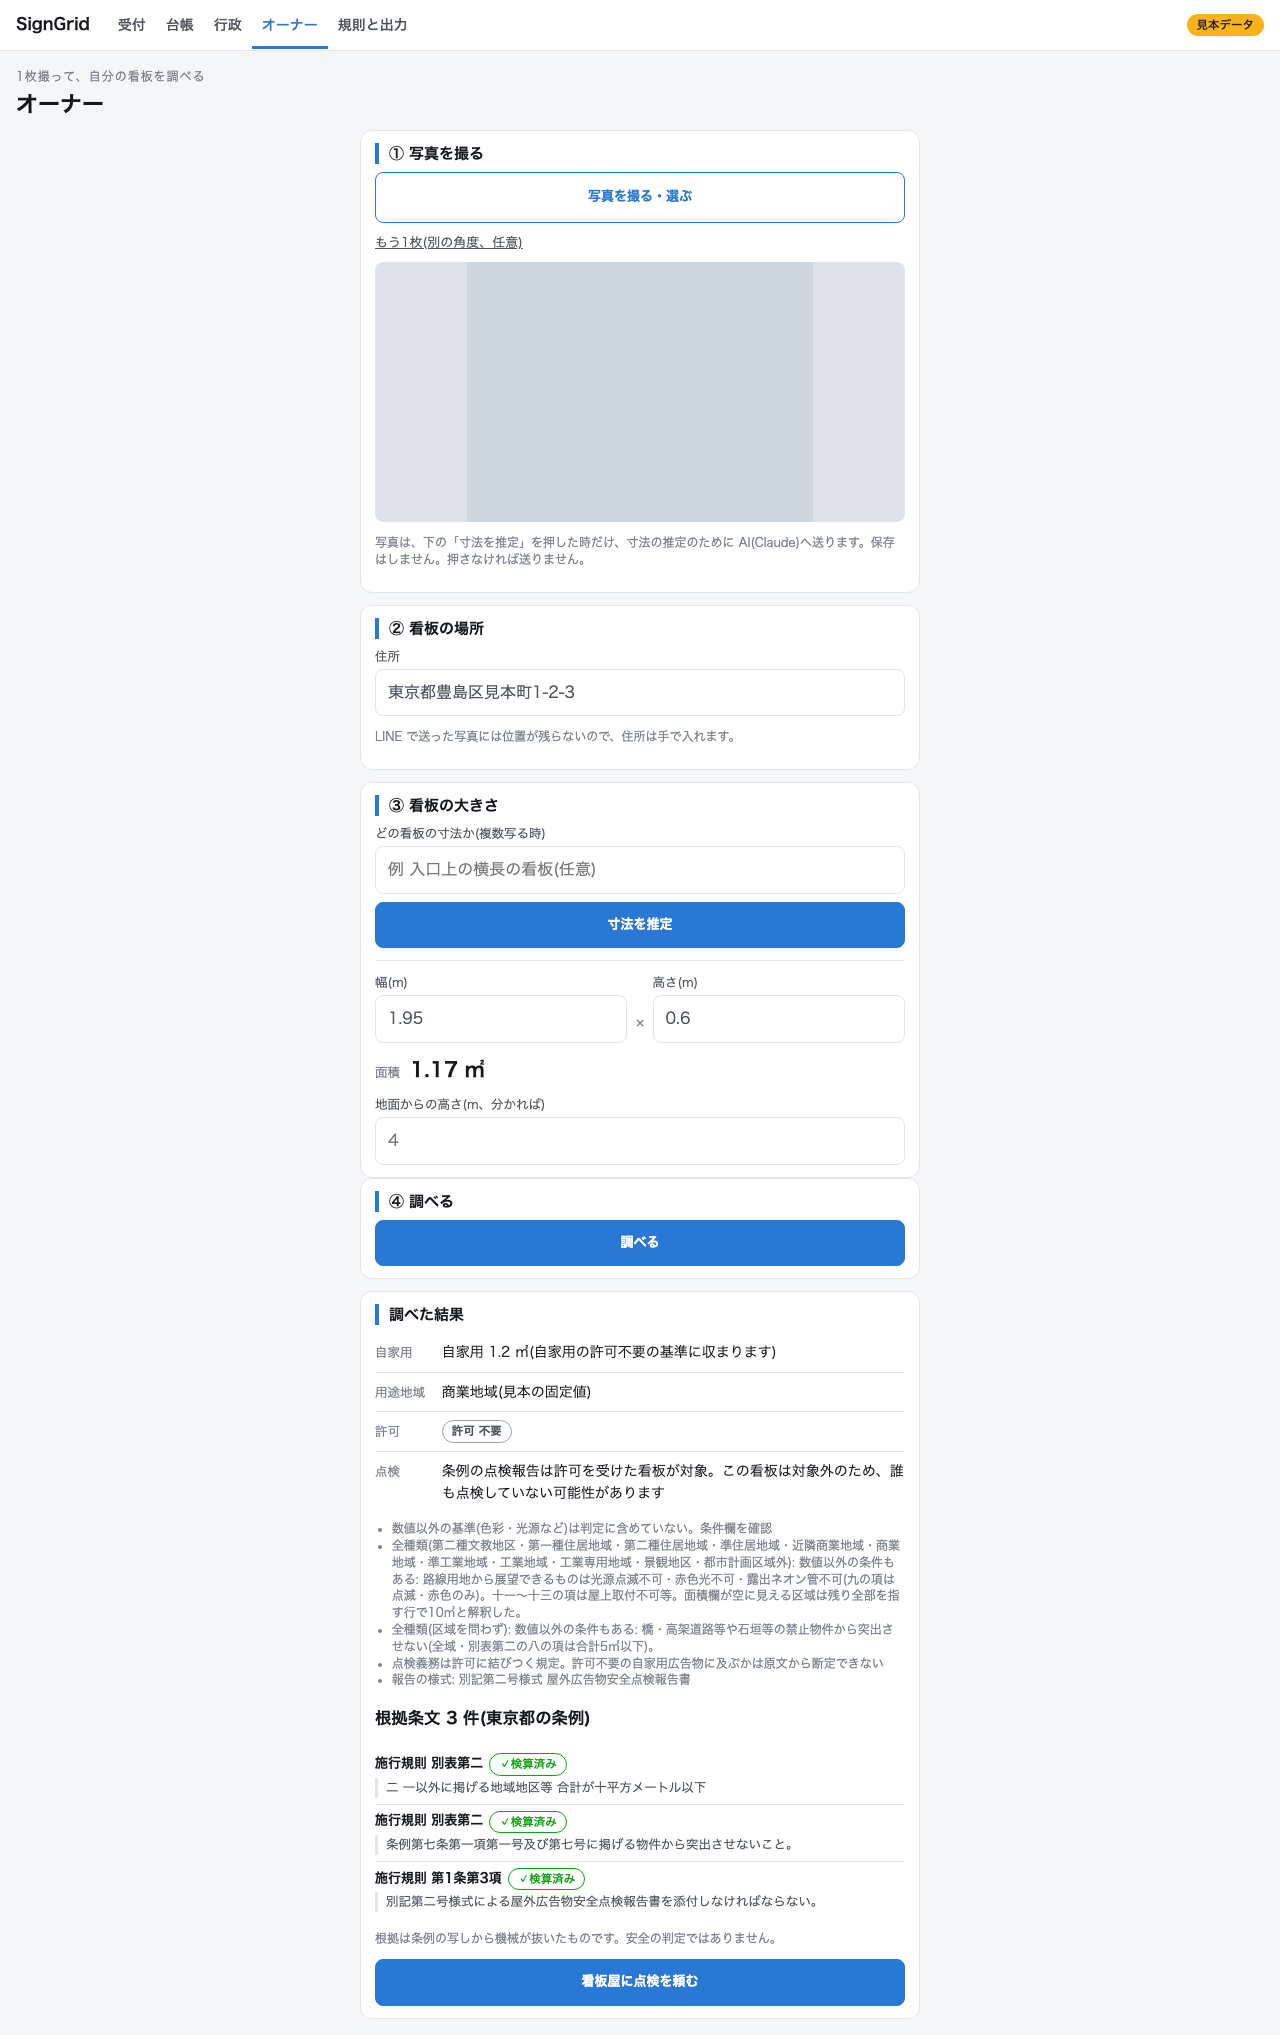
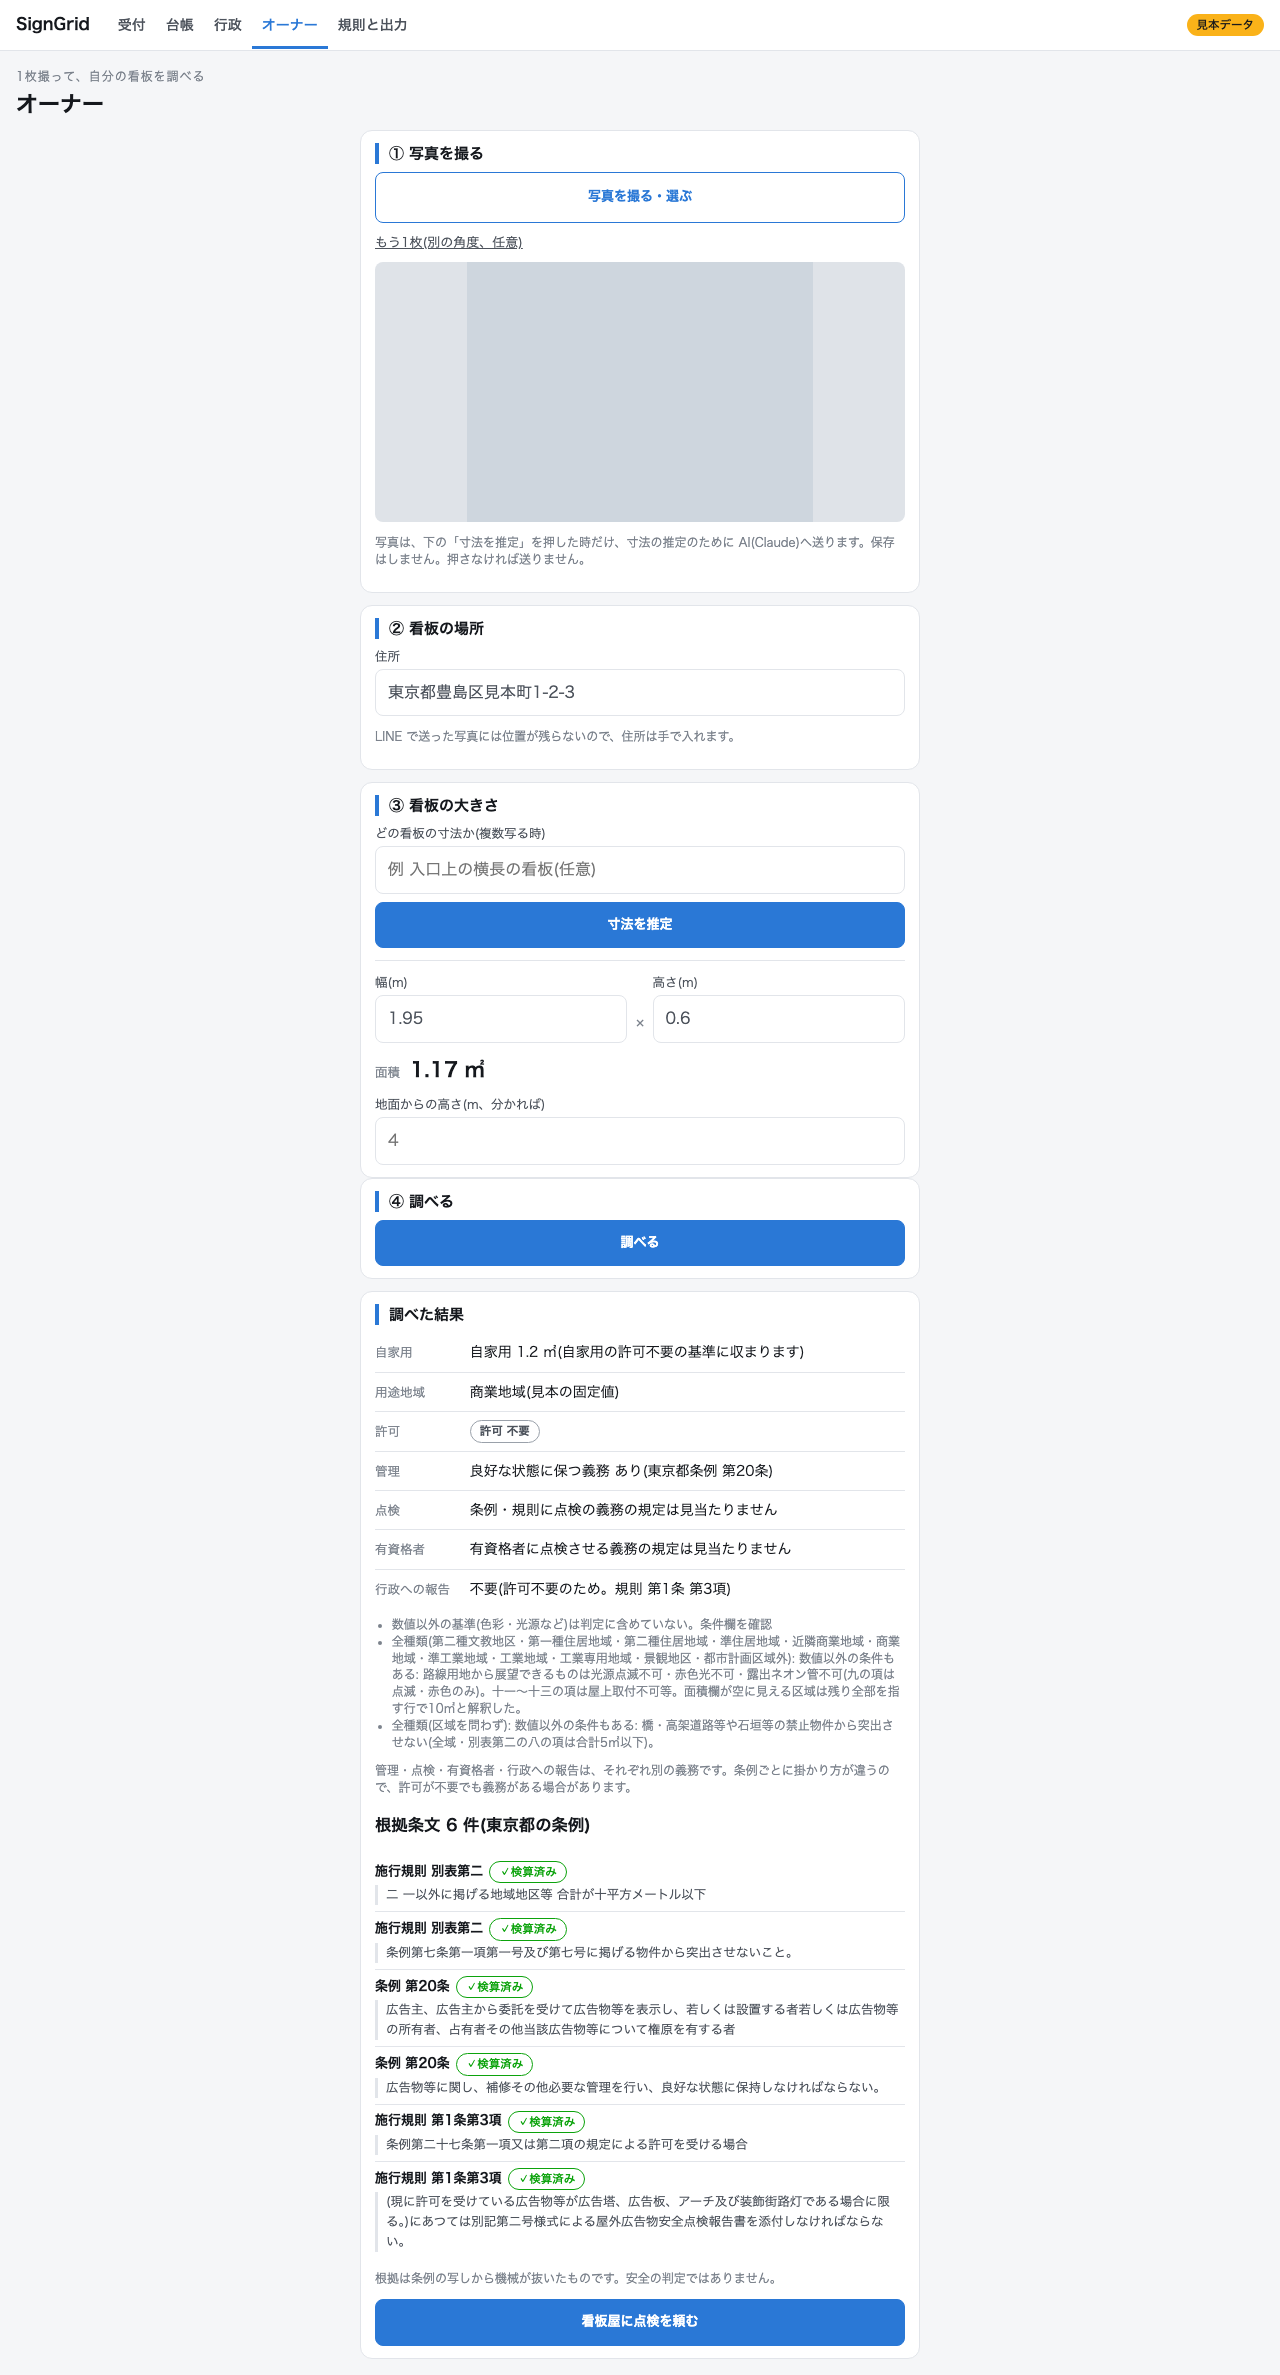
UI: karte legal card and owner screen show four duty rows with articles; drop the 'nobody may be inspecting' sentence

diff --git a/kanban_karte/web/static/owner.js b/kanban_karte/web/static/owner.js
@@ -3,16 +3,16 @@
 "use strict";
 (function () {
   const { el } = KK;
+  const DUTY_NOTE = "管理・点検・有資格者・行政への報告は、それぞれ別の義務です。条例ごとに掛かり方が違うので、許可が不要でも義務がある場合があります。";
 
-  // 点検の行の文言は法規役の値に従う(盛らない)
-  function inspectLine(r) {
-    if (r.permit_required === "不要" && r.inspection_required === "不要") return "点検の義務はありません";
-    if (r.permit_required === "不要" && r.inspection_required === "要実測") {
-      return "条例の点検報告は許可を受けた看板が対象。この看板は対象外のため、誰も点検していない可能性があります";
+  // 点検まわりの4行(管理 / 点検 / 有資格者 / 行政への報告)は法規役の duties の文言のまま(盛らない)。
+  // 旧形式の規則(duties が空)のときだけ、旧『点検』の値を1行で出す
+  function dutyLines(r) {
+    const es = KK.dutyEntries(r.duties);
+    if (!es.length) {
+      return [el("li", { class: "line-duty" }, el("span", { class: "k", text: "点検" }), el("span", { text: `点検の義務: ${r.inspection_required}(旧形式の規則。再抽出が要ります)` }))];
     }
-    if (r.permit_required === "不要") return "許可は不要ですが、条例の写しでは点検の義務が「要」とされています";
-    if (r.permit_required === "要") return `許可が要ります${r.permit_term_years ? `(許可の期限は ${r.permit_term_years} 年以内)` : ""}。点検の義務: ${r.inspection_required}`;
-    return "実測や区域の確認が要ります。点検の義務: 要実測";
+    return es.map((e) => el("li", { class: "line-duty" }, el("span", { class: "k", text: e.title }), el("span", { text: e.text })));
   }
 
   function placeLine(place) {
@@ -25,12 +25,11 @@
     const exempt = r.is_self_use_exempt;
     const line1 = exempt === true ? `自家用 ${area}(自家用の許可不要の基準に収まります)`
       : exempt === false ? `自家用 ${area}(自家用の基準を超えます)` : `自家用 ${area}(基準に収まるか決められません)`;
-    const line3 = inspectLine(r);
     return [
       el("li", { class: "line-use" }, el("span", { class: "k", text: "自家用" }), el("span", { text: line1 })),
       placeLine(place),
       el("li", { class: "line-permit" }, el("span", { class: "k", text: "許可" }), KK.permitChip(r.permit_required)),
-      el("li", { class: "line-inspect" }, el("span", { class: "k", text: "点検" }), el("span", { text: line3 })),
+      ...dutyLines(r),
     ];
   }
 
@@ -41,6 +40,7 @@
       el("h2", { text: "調べた結果" }),
       el("ul", { class: "three" }, threeLines(r, null, r.place)),
       r.notes && r.notes.length ? el("ul", { class: "legal-notes" }, r.notes.map((n) => el("li", { class: "sub", text: n }))) : null,
+      el("p", { class: "sub", text: DUTY_NOTE }),
       el("h3", { text: `根拠条文 ${(r.citations || []).length} 件${r.ordinance_key ? `(${r.ordinance_key}の条例)` : ""}` }),
       KK.citations(r.citations),
       el("p", { class: "sub", text: "根拠は条例の写しから機械が抜いたものです。安全の判定ではありません。" }),
@@ -54,7 +54,7 @@
     const m = (mm) => (mm / 1000).toFixed(2).replace(/\.?0+$/, "");
     const refs = (e.references || []).filter((r) => r.name);
     const legal = { permit_required: j.permit, inspection_required: j.inspection_required, is_self_use_exempt: j.is_self_use_exempt,
-      permit_term_years: j.permit_term_years };
+      permit_term_years: j.permit_term_years, duties: j.duties };
     const areaText = j.area_low === j.area_high ? `${j.area_mid.toFixed(1)} ㎡` : `${j.area_mid.toFixed(1)} ㎡(${j.area_low.toFixed(1)}〜${j.area_high.toFixed(1)} ㎡)`;
     return el("section", { class: "card owner-result owner-estimate", "aria-live": "polite" },
       el("h2", { text: "写真から推定した大きさ" }),

diff --git a/kanban_karte/web/static/karte.js b/kanban_karte/web/static/karte.js
@@ -124,6 +124,13 @@
       el("p", { class: "sub", text: d.height_m ? "高さの基準がある条例では、この値で判定します。" : "未入力。高さの基準がある条例では、全高が分からないと「要実測」になります。" }), msg);
   }
 
+  // 点検まわりの4つの義務(法規役の duties の文言のまま)。旧形式の規則のときは旧『点検』の値だけ
+  function dutyKv(L) {
+    const es = KK.dutyEntries(L.duties);
+    if (!es.length) return [el("span", { class: "k", text: "点検" }), el("span", {}, `点検の義務 ${L.inspection_required}(旧形式の規則。再抽出が要る)`)];
+    return es.flatMap((e) => [el("span", { class: "k", text: e.title }), el("span", {}, e.text)]);
+  }
+
   function legalCard(d, state, rerender) {
     const kv = (k, v) => [el("span", { class: "k", text: k }), el("span", {}, v)];
     const L = d.legal || {};
@@ -134,7 +141,9 @@
           : L.is_self_use_exempt ? `自家用の許可不要の基準に収まる${L.area_m2 ? `(${L.area_m2} ㎡)` : ""}` : "自家用の基準を超える、または自家用でない"),
         KK.placeText(L.place) ? kv("用途地域", KK.placeText(L.place)) : null,
         kv("許可", KK.permitChip(L.permit_required)),
-        kv("期限・点検", [term, `点検の義務 ${L.inspection_required}`].filter(Boolean).join(" / "))),
+        term ? kv("期限", term) : null,
+        ...dutyKv(L)),
+      el("p", { class: "sub", text: "管理・点検・有資格者・行政への報告は別の義務です。条例ごとに掛かり方が違い、許可が不要でも義務がある場合があります。" }),
       el("h3", { text: `根拠条文 ${(L.citations || []).length} 件${L.ordinance_key ? `(${L.ordinance_key}の条例)` : ""}` }),
       KK.citations(L.citations),
       (L.notes || []).length ? el("ul", { class: "legal-notes" }, L.notes.map((n) => el("li", { class: "sub", text: n }))) : null,

diff --git a/kanban_karte/web/static/app.css b/kanban_karte/web/static/app.css
@@ -125,7 +125,7 @@ dialog#lightbox::backdrop{background:rgba(0,0,0,.7)}
 .side-col{position:sticky;top:60px}
 .sum-top{display:flex;justify-content:space-between;gap:12px;align-items:flex-start}
 .rank-box{text-align:right;flex:none}
-.kv{display:grid;grid-template-columns:5.5em 1fr;gap:2px 10px;font-size:13px;margin-top:6px}
+.kv{display:grid;grid-template-columns:6.8em 1fr;gap:2px 10px;font-size:13px;margin-top:6px}
 .kv .k{color:var(--muted)}
 .items-head{display:flex;flex-wrap:wrap;justify-content:space-between;align-items:center;gap:8px}
 .items-head h2{margin:0}
@@ -240,7 +240,7 @@ dialog#lightbox::backdrop{background:rgba(0,0,0,.7)}
 .area{font-size:20px;font-weight:700}
 .owner label.num.wide{margin-top:4px}
 .three{list-style:none;margin:0;padding:0}
-.three li{display:grid;grid-template-columns:4.2em minmax(0,1fr);gap:8px;align-items:start;padding:8px 0;border-bottom:1px solid var(--line);font-size:14px}
+.three li{display:grid;grid-template-columns:6.2em minmax(0,1fr);gap:8px;align-items:start;padding:8px 0;border-bottom:1px solid var(--line);font-size:14px}
 .three li:last-child{border-bottom:0}
 .three .chip{justify-self:start}
 .three .k{color:var(--muted);font-size:12.5px;padding-top:2px}

diff --git a/kanban_karte/web/static/app.js b/kanban_karte/web/static/app.js
@@ -155,3 +155,10 @@ KK.start = async function () {
   window.addEventListener("hashchange", KK.route);
   KK.route();
 };
+
+// 点検まわりの4つの義務(管理 / 点検 / 有資格者 / 行政への報告)。法規役の duties({title, value, text})を順に。
+// 4つは別の義務で、条例ごとに掛かり方が違う。text は法規役が条文つきで作った1行(盛らない)
+KK.DUTY_ORDER = ["maintenance", "inspection", "qualified", "report"];
+KK.dutyEntries = function (duties) {
+  return duties ? KK.DUTY_ORDER.filter((k) => duties[k]).map((k) => duties[k]) : [];
+};

diff --git a/tools/web_screenshots.py b/tools/web_screenshots.py
@@ -3,7 +3,7 @@
   python3 tools/web_screenshots.py [--out docs/img] [--only ledger,karte,...]
 
 撮る画面: ledger(台帳)、karte(カルテ)、karte-legal(カルテの法規カード)、karte-edit(黄色のマスを直した後)、karte-confirmed(確定後)、
-rules(規則と出力)、intake(受付)、gov(行政。gov.make_sample の見本の束を入れる)、owner(オーナー。見本の寸法で「調べる」まで)、
+rules(規則と出力)、intake(受付)、gov(行政。gov.make_sample の見本の束を入れる)、owner(オーナー。見本の寸法で「調べる」まで)、owner-saitama(同、埼玉県の住所・全高 5m)、
 owner-estimate(オーナーの「寸法を推定」後。推定役は固定値の見本で、API は呼ばない)。
 karte-edit 以降は台帳を書き換えるので、一時の台帳でだけ行う(見本の JSON は変わらない)。
 """
@@ -99,6 +99,19 @@ def run(page, base, out, tag, only):
         page.evaluate("window.scrollTo(0, 0)")
         page.screenshot(path=str(out / f"owner-{tag}.png"), full_page=True)
         print(out / f"owner-{tag}.png")
+    if want("owner-saitama"):  # 許可不要の自家用でも点検の義務がある条例(埼玉県)。全高 5m で有資格者は努力義務
+        page.goto(f"{base}/#/owner")
+        page.wait_for_selector("main .owner")
+        page.fill("#owner-address", "埼玉県さいたま市大宮区桜木町1-1-1")
+        page.fill("#owner-w", "1.95")
+        page.fill("#owner-h", "0.6")
+        page.fill("#owner-height", "5")
+        page.click("button:has-text('調べる')")
+        page.wait_for_selector(".owner-result .cites li")
+        page.wait_for_timeout(600)
+        page.evaluate("window.scrollTo(0, 0)")
+        page.screenshot(path=str(out / f"owner-saitama-{tag}.png"), full_page=True)
+        print(out / f"owner-saitama-{tag}.png")
     if want("owner-estimate"):
         page.goto(f"{base}/#/owner")
         page.wait_for_selector("main .owner")

diff --git a/kanban_karte/dim/estimator.py b/kanban_karte/dim/estimator.py
@@ -210,8 +210,21 @@ def judge_from_range(estimate: DimEstimate, address: str | None, judge=legal.jud
     if lo.permit_required != hi.permit_required:
         notes.append(f"推定の範囲の両端で結論が分かれる(小さい側 {area_low} ㎡: 許可{lo.permit_required}、"
                      f"大きい側 {area_high} ㎡: 許可{hi.permit_required})。実測が要る")
+    duties = {}
+    for k, e in lo.duties.items():
+        h = hi.duties.get(k)
+        if h is not None and h["value"] == e["value"]:
+            duties[k] = e
+        else:  # 範囲の両端で結論が分かれる -> 要実測(根拠の条文は小さい側のものを残す)
+            duties[k] = {**e, "value": legal.NEEDS_MEASURE, "reason": "推定の範囲の両端で結論が分かれる",
+                         "text": "要実測(推定の範囲の両端で結論が分かれる)"}
     return {"permit": permit, "area_low": area_low, "area_high": area_high, "area_mid": area_mid,
             "inspection_required": same(lo.inspection_required, hi.inspection_required),
+            "maintenance_duty": same(lo.maintenance_duty, hi.maintenance_duty),
+            "inspection_duty": same(lo.inspection_duty, hi.inspection_duty),
+            "inspection_interval_years": lo.inspection_interval_years if lo.inspection_interval_years == hi.inspection_interval_years else None,
+            "qualified_inspector": same(lo.qualified_inspector, hi.qualified_inspector),
+            "report_duty": same(lo.report_duty, hi.report_duty), "duties": duties,
             "is_self_use_exempt": lo.is_self_use_exempt if lo.is_self_use_exempt == hi.is_self_use_exempt else None,
             "permit_term_years": hi.permit_term_years, "ordinance_key": lo.ordinance_key or hi.ordinance_key,
             "municipality": lo.municipality or hi.municipality, "citations": cites, "notes": notes,

diff --git a/tests/test_web_v2.py b/tests/test_web_v2.py
@@ -22,6 +22,24 @@ class LegalTest(WebTest):
         for k in api.LEGAL_KEYS:
             self.assertIn(k, L)
 
+    def test_legal_has_four_duties(self):
+        L = self.req("/api/signs/demo-001")[1]["legal"]
+        for k in ("maintenance_duty", "inspection_duty", "qualified_inspector", "report_duty", "inspection_interval_years", "duties"):
+            self.assertIn(k, L)
+        self.assertEqual(set(L["duties"]), {"maintenance", "inspection", "qualified", "report"})
+        self.assertEqual([L["duties"][k]["title"] for k in ("maintenance", "inspection", "qualified", "report")],
+                         ["管理", "点検", "有資格者", "行政への報告"])
+        self.assertEqual(L["inspection_required"], L["report_duty"])
+        self.assertIn("東京都条例 第20条", L["duties"]["maintenance"]["text"])
+
+    def test_static_no_longer_claims_nobody_inspects(self):
+        from pathlib import Path
+        static = Path(api.__file__).parent / "static"
+        for f in static.glob("*.js"):
+            self.assertNotIn("誰も点検していない", f.read_text(encoding="utf-8"), f.name)
+        self.assertIn("dutyEntries", (static / "owner.js").read_text(encoding="utf-8"))
+        self.assertIn("dutyEntries", (static / "karte.js").read_text(encoding="utf-8"))
+
     def test_summary_keeps_permit_required(self):
         _, signs, _ = self.req("/api/signs")
         self.assertTrue(all("permit_required" in s for s in signs))

diff --git a/tests/test_dim.py b/tests/test_dim.py
@@ -122,6 +122,15 @@ class JudgeFromRangeTest(unittest.TestCase):
         self.assertEqual(r["inspection_required"], "不要")
         self.assertEqual(len(r["citations"]), 1)  # 重複は1件にまとめる
 
+    def test_range_returns_four_duties(self):
+        # 実際の規則で、範囲の両端が同じ結論の義務はそのまま、分かれる義務は 要実測
+        r = judge_from_range(self.est([2800, 3600], [800, 1000]), "埼玉県さいたま市大宮区桜木町1-1-1")
+        for k in ("maintenance_duty", "inspection_duty", "qualified_inspector", "report_duty", "duties"):
+            self.assertIn(k, r)
+        self.assertEqual(set(r["duties"]), {"maintenance", "inspection", "qualified", "report"})
+        self.assertEqual(r["maintenance_duty"], "要")
+        self.assertEqual(r["duties"]["maintenance"]["value"], r["maintenance_duty"])
+
     def test_both_ends_exceed(self):
         r = judge_from_range(self.est([6000, 7000], [2000, 2500], w=6500, h=2200), "東京都", fake_judge(10))
         self.assertEqual(r["permit"], "要")

diff --git a/kanban_karte/web/api.py b/kanban_karte/web/api.py
@@ -81,7 +81,8 @@ def _correction(r, labels: dict[str, str]) -> dict:
 
 
 LEGAL_KEYS = ("permit_required", "inspection_required", "permit_term_years", "is_self_use_exempt", "municipality",
-              "ordinance_key", "citations", "notes", "confidence")
+              "ordinance_key", "citations", "notes", "confidence",
+              "maintenance_duty", "inspection_duty", "inspection_interval_years", "qualified_inspector", "report_duty", "duties")
 
 
 def sign_area_m2(s: Sign) -> float | None:
